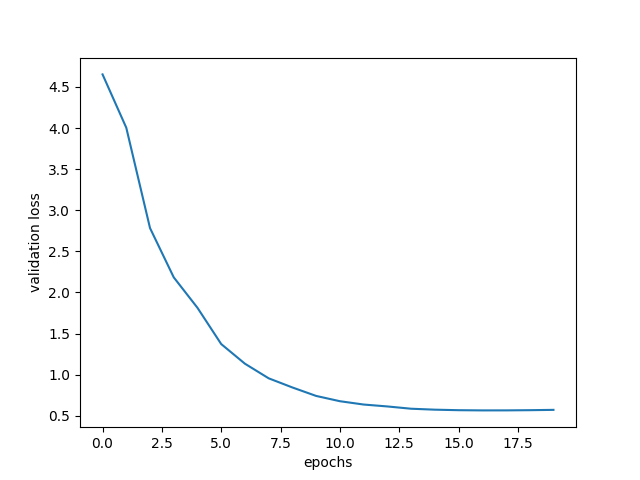
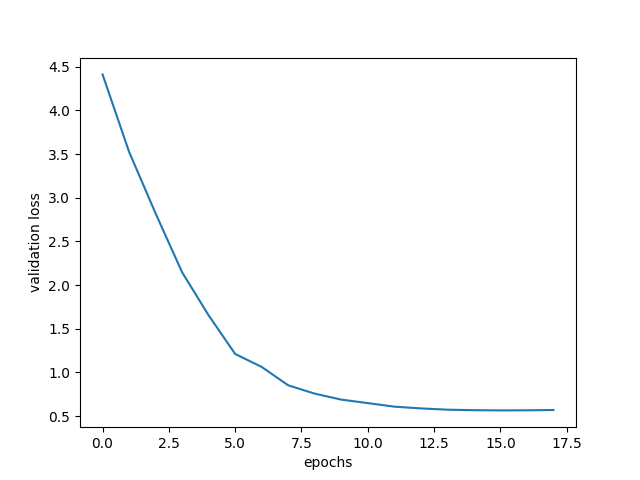
update & weiter

diff --git a/tf_versions/main.py b/tf_versions/main.py
@@ -49,10 +49,11 @@ def redshift_error_plot(net, test_in, test_out):
     plt.show()
 
 # only galaxy
-if True:
+if False:
     train_in, train_out, test_in, test_out = get_data("GALAXY", 3000, 1000)
     net = Network()
     history = net.train(train_in, train_out, val_in=test_in, val_out=test_out, epochs=20, verbose=0)
+    # net.model.save("galaxies.h5")
 
     # plot loss of test data
     val_loss = history.history["val_loss"]
@@ -63,7 +64,8 @@ if True:
     plt.show()
     redshift_error_plot(net, test_in, test_out)
 
-    tab = pt.Table(column_names=["redshift", "loss"], columns=2)
+    # Preperation for linear regression
+    tab = pt.Table(column_names=["redshift", "relative uncertainty/loss"], columns=2)
     preds = net.predict(test_in).flatten()
     diff = np.abs(preds - test_out)
     pairs = list(zip(diff.tolist(), test_out.tolist()))
@@ -79,13 +81,20 @@ if True:
     for redshift, loss in zip(test_out, test_in):
         tab.add((redshift, loss))
 
+    reg = pr.SimpleRegression(tab, {'x': 0, 'y': 1})
+    print(reg)
+    reg.plot()
+    reg.residues()
 
 
-if False:
+
+if True:
     # only quasar
     train_in, train_out, test_in, test_out = get_data("QSO", 8000, 2000)
     net = Network()
+    # 15
     history = net.train(train_in, train_out, val_in=test_in, val_out=test_out, epochs=15, verbose=0)
+    net.model.save("quasar.h5")
 
     # plot loss of test data
     val_loss = history.history["val_loss"]
@@ -98,6 +107,8 @@ if False:
     redshift_error_plot(net, test_in, test_out)
 
     tab = pt.Table(column_names=["redshift", "loss"], columns=2)
+    tab2 = pt.Table(column_names=["redshift", "loss"], columns=2)
+
     preds = net.predict(test_in).flatten()
     diff = np.abs(preds - test_out)
     pairs = list(zip(diff.tolist(), test_out.tolist()))
@@ -112,6 +123,10 @@ if False:
 
     for redshift, loss in zip(test_out, test_in):
         tab.add((redshift, loss))
+
+    reg = pr.SimpleRegression(tab, {'x': 0, 'y': 1})
+    reg.plot()
+    reg.residues()
 
 
 

diff --git a/tf_versions/network.py b/tf_versions/network.py
@@ -4,6 +4,12 @@ import tensorflow.keras.backend as kb
 
 
 def squared_relative_loss(y_actual,y_pred):
+    """
+    Calculates the relative squared error. This should cause a constant relative uncertainty in the predictions.
+    :param y_actual: np.array[1] = Correct output data
+    :param y_pred: np.array[1] = Predicted output data
+    :return: np.array[1] = loss
+    """
     loss = kb.square((y_actual-y_pred) / y_actual)
     return loss
 
@@ -22,11 +28,10 @@ class Network:
             # scale brightness
             keras.layers.Dense(5, activation=tf.nn.leaky_relu),
             # calculate stuff
-            keras.layers.Dense(15, activation=tf.nn.sigmoid),
-            keras.layers.Dense(20, activation=tf.nn.sigmoid),
-            keras.layers.Dense(15, activation=tf.nn.sigmoid),
+            keras.layers.Dense(15, activation=tf.nn.sigmoid, kernel_regularizer=keras.regularizers.l2(l=0.1)),
+            keras.layers.Dense(20, activation=tf.nn.sigmoid, kernel_regularizer=keras.regularizers.l2(l=0.1)),
+            keras.layers.Dense(15, activation=tf.nn.sigmoid, kernel_regularizer=keras.regularizers.l2(l=0.1)),
             keras.layers.Dense(1, activation=tf.nn.sigmoid)
-            # , kernel_regularizer=keras.regularizers.l2(l=0.1)
         ])
 
         self.model.compile(optimizer='adam', loss=squared_relative_loss,
@@ -43,7 +48,8 @@ class Network:
         :return: history of training
         """
         if val_in is not None and val_out is not None:
-            return self.model.fit(input_data, output_data, validation_data=(val_in, val_out), epochs=epochs, **kwargs)
+            return self.model.fit(input_data, output_data, validation_data=(val_in, val_out), epochs=epochs,
+                                  callbacks=[keras.callbacks.EarlyStopping(monitor="val_loss", patience=2)], **kwargs)
         else:
             return self.model.fit(input_data, output_data, epochs=epochs, **kwargs)
 
